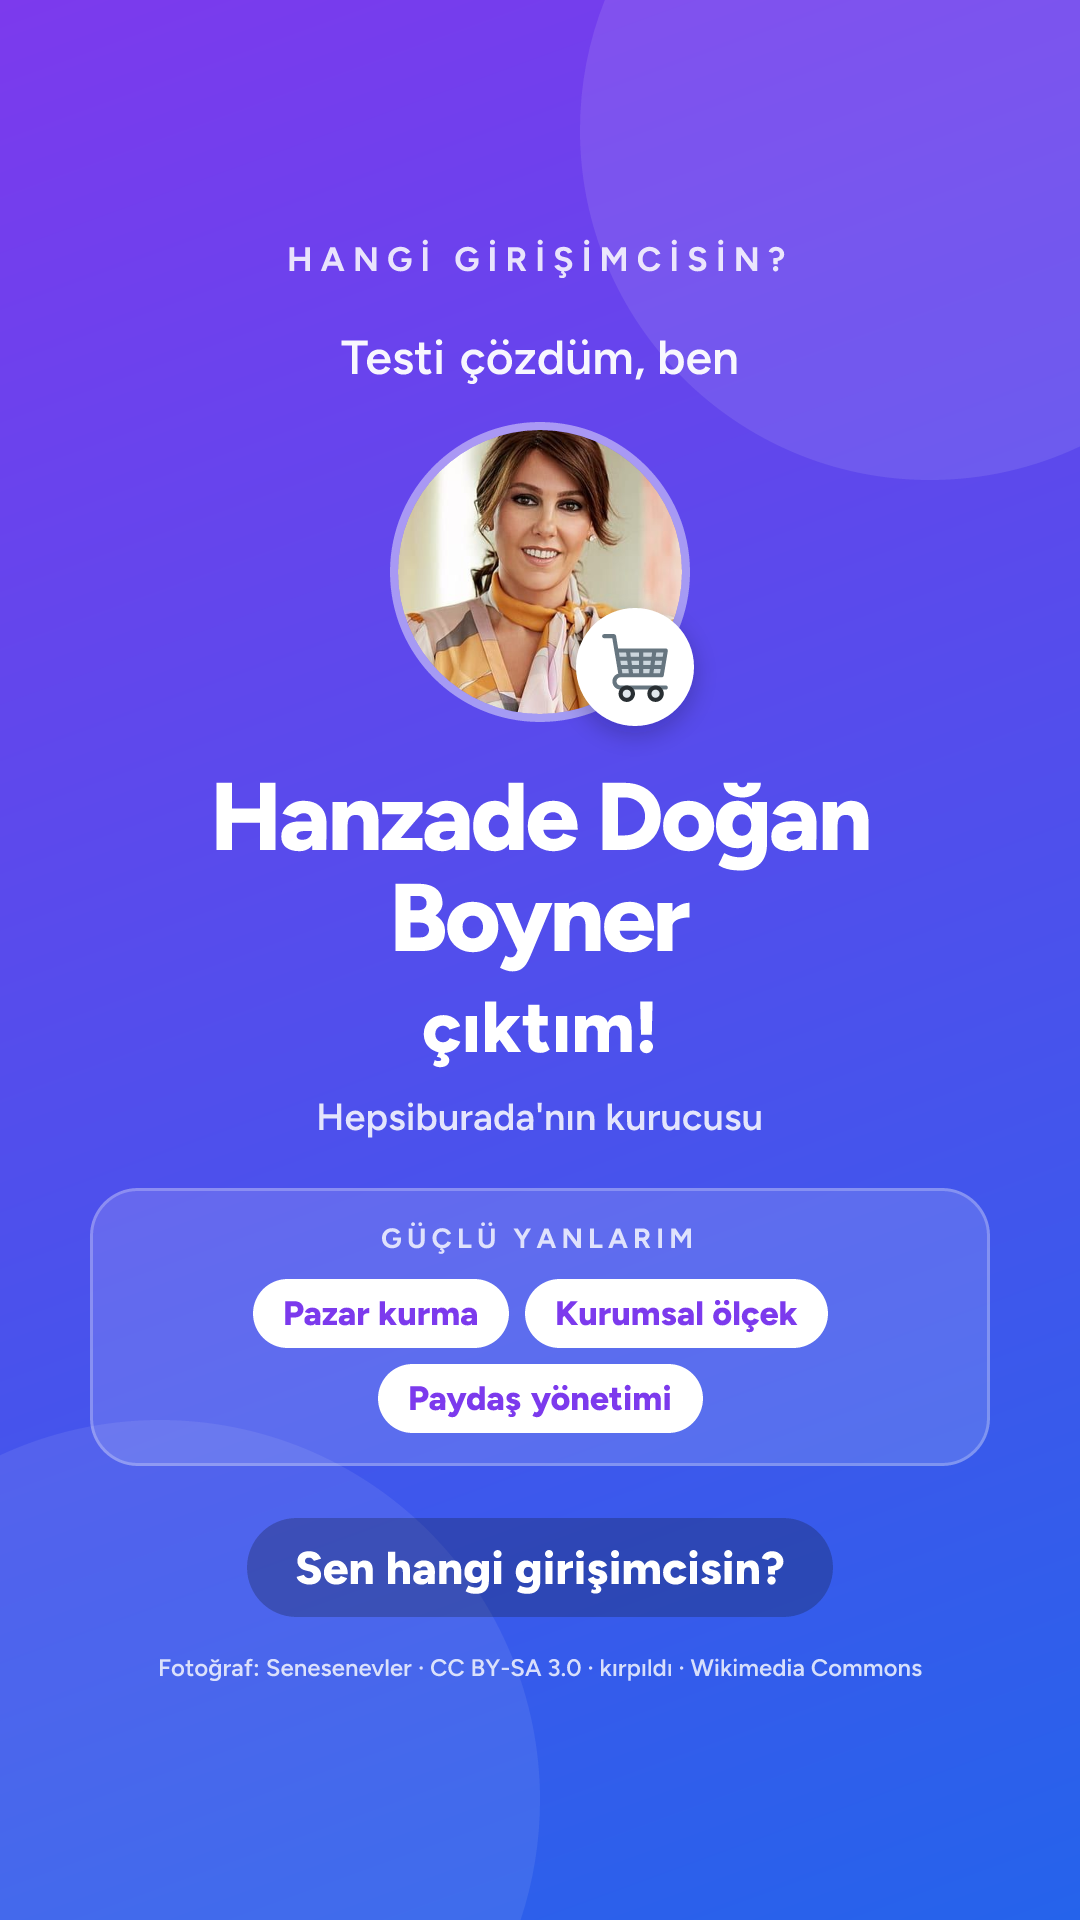
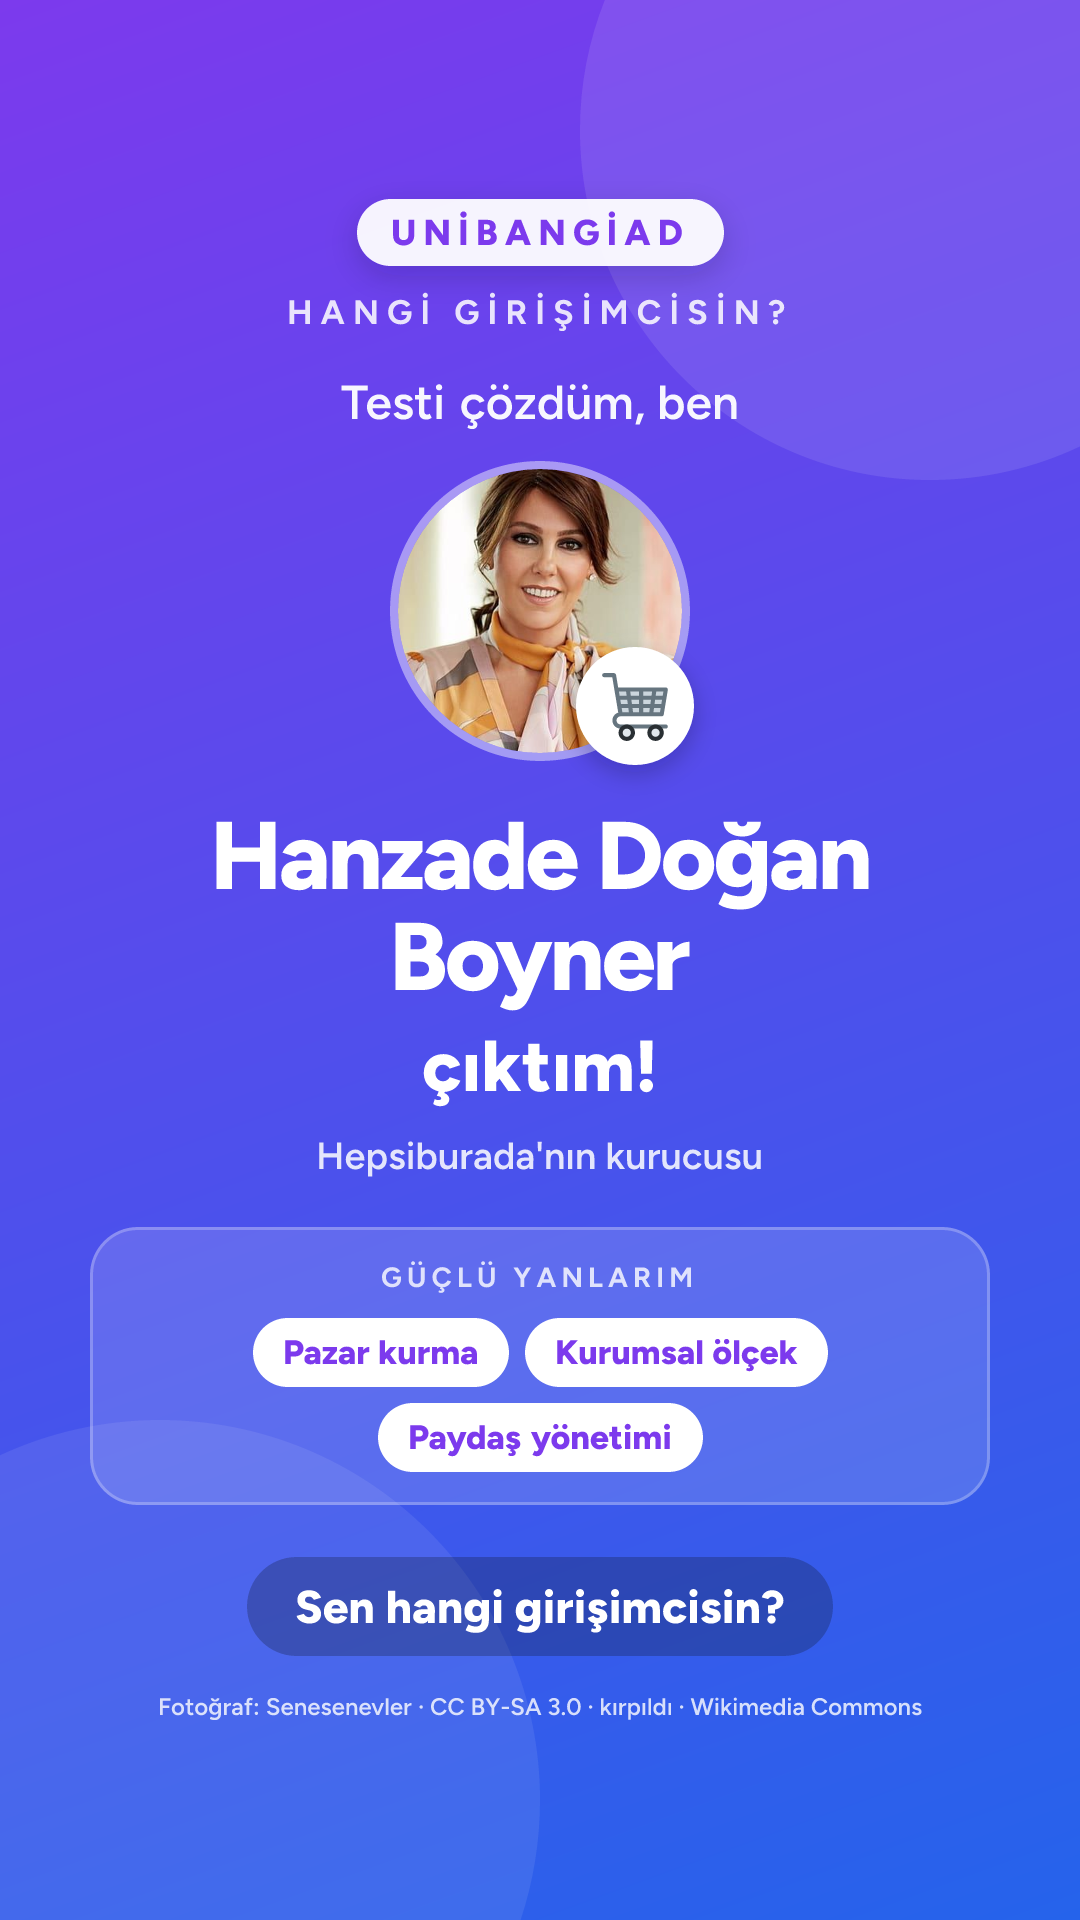
Profil çubukları yenilendi, UNİBANGİAD rozeti eklendi

Changed region(s): [[0.0611, 0.0938, 0.9167, 0.9062], [0.0917, 0.75, 0.1222, 0.7812]]

diff --git a/stil.css b/stil.css
@@ -11,6 +11,21 @@ body {
 }
 main { max-width: 460px; margin: 0 auto; padding: 24px 16px 40px; }
 
+/* Kulüp rozeti (quiz.meta.club) — sayfanın en üstü. */
+.marka {
+  display: block;
+  width: max-content;
+  margin: 0 auto 14px;
+  padding: 7px 18px;
+  border-radius: 999px;
+  font-size: 13px;
+  font-weight: 800;
+  letter-spacing: .18em;
+  color: #fff;
+  background: linear-gradient(90deg, var(--g1), var(--g2));
+  box-shadow: 0 8px 20px -10px rgba(76, 29, 149, .6);
+}
+
 .ust {
   margin: 0 0 12px;
   text-align: center;
@@ -136,11 +151,68 @@ main { max-width: 460px; margin: 0 auto; padding: 24px 16px 40px; }
 }
 .profil h2 { margin: 0; font-size: 18px; }
 .profil .alt { margin: 4px 0 16px; font-size: 13px; color: #64748b; }
-.cubuk + .cubuk { margin-top: 12px; }
-.etiket { display: flex; justify-content: space-between; font-size: 14px; font-weight: 600; color: #334155; }
-.etiket span { font-variant-numeric: tabular-nums; color: #64748b; }
-.iz { height: 10px; margin-top: 6px; border-radius: 999px; background: #f1f5f9; overflow: hidden; }
-.iz div { height: 100%; border-radius: 999px; }
+/* Profil çubukları. --renk her satırda eksenin rengi (paylas.js verir).
+ * color-mix desteklemeyen eski tarayıcılar önceki satırdaki yedek rengi kullanır. */
+.cubuk { --renk: #7c3aed; padding: 10px 12px; border-radius: 16px; }
+.cubuk + .cubuk { margin-top: 6px; }
+.cubuk.tepe {
+  background: #faf5ff;
+  background: color-mix(in srgb, var(--renk) 8%, white);
+  box-shadow: inset 0 0 0 1.5px rgba(124, 58, 237, .15);
+  box-shadow: inset 0 0 0 1.5px color-mix(in srgb, var(--renk) 30%, transparent);
+}
+.cubuk-ust { display: flex; align-items: center; gap: 10px; }
+.ikon {
+  display: flex;
+  flex-shrink: 0;
+  align-items: center;
+  justify-content: center;
+  width: 34px;
+  height: 34px;
+  border-radius: 11px;
+  font-size: 18px;
+  background: #f1f5f9;
+  background: color-mix(in srgb, var(--renk) 16%, white);
+}
+.ad { flex: 1; min-width: 0; font-size: 14px; font-weight: 700; color: #1e293b; }
+.rozet-tepe {
+  flex-shrink: 0;
+  padding: 3px 8px;
+  border-radius: 999px;
+  font-size: 10px;
+  font-weight: 800;
+  letter-spacing: .05em;
+  text-transform: uppercase;
+  color: #fff;
+  background: var(--renk);
+}
+.deger {
+  flex-shrink: 0;
+  min-width: 30px;
+  text-align: right;
+  font-size: 15px;
+  font-weight: 800;
+  font-variant-numeric: tabular-nums;
+  color: var(--renk);
+}
+.iz {
+  height: 12px;
+  margin: 8px 0 0 44px;
+  border-radius: 999px;
+  overflow: hidden;
+  background: #f1f5f9;
+  background: color-mix(in srgb, var(--renk) 12%, #f1f5f9);
+}
+.dolgu {
+  width: 0;
+  height: 100%;
+  border-radius: 999px;
+  background: var(--renk);
+  background: linear-gradient(90deg, color-mix(in srgb, var(--renk) 55%, white), var(--renk));
+  box-shadow: 0 2px 8px -2px var(--renk);
+  transition: width .9s cubic-bezier(.2, .8, .2, 1);
+}
+@media (prefers-reduced-motion: reduce) { .dolgu { transition: none; } }
 
 footer { margin-top: 28px; text-align: center; font-size: 12px; line-height: 1.6; color: #94a3b8; }
 

diff --git a/paylas.js b/paylas.js
@@ -10,6 +10,14 @@
 
   var veri = JSON.parse(document.getElementById("veri").textContent);
 
+  /** Küçük DOM yardımcısı: metin her zaman textContent ile (HTML enjeksiyonu yok). */
+  function el(tag, className, text) {
+    var node = document.createElement(tag);
+    node.className = className;
+    if (text !== undefined) node.textContent = text;
+    return node;
+  }
+
   /* ---------- 1. Ziyaretçinin profili (?p) ---------- */
 
   // share-code.ts decodeProfile ile aynı biçim: eksen başına 2 karakter, 36'lık taban.
@@ -59,28 +67,54 @@
 
     // your-profile.tsx ile aynı görüntüleme ölçeği: tepe eksen %100.
     var peak = Math.max.apply(null, user.concat([1]));
+    var pcts = user.map(function (v) {
+      return Math.round((v / peak) * 100);
+    });
+    // En güçlü iki eksen rozet alır (dominantAxes ile aynı fikir: en yüksek 2).
+    var top2 = pcts
+      .map(function (p, i) {
+        return { p: p, i: i };
+      })
+      .sort(function (a, b) {
+        return b.p - a.p;
+      })
+      .slice(0, 2)
+      .map(function (x) {
+        return x.i;
+      });
+
     var box = document.getElementById("cubuklar");
+    var fills = [];
     veri.axes.forEach(function (axis, i) {
-      var pct = Math.round((user[i] / peak) * 100);
-      var row = document.createElement("div");
-      row.className = "cubuk";
-      var label = document.createElement("div");
-      label.className = "etiket";
-      label.textContent = axis.emoji + " " + axis.label;
-      var value = document.createElement("span");
-      value.textContent = String(pct);
-      label.appendChild(value);
-      var track = document.createElement("div");
-      track.className = "iz";
-      var fill = document.createElement("div");
-      fill.style.width = pct + "%";
-      fill.style.background = axis.color;
+      var row = el("div", "cubuk" + (top2.indexOf(i) >= 0 ? " tepe" : ""));
+      row.style.setProperty("--renk", axis.color);
+
+      var head = el("div", "cubuk-ust");
+      head.appendChild(el("span", "ikon", axis.emoji));
+      head.appendChild(el("span", "ad", axis.label));
+      if (top2.indexOf(i) >= 0) head.appendChild(el("span", "rozet-tepe", "En güçlü"));
+      head.appendChild(el("span", "deger", String(pcts[i])));
+
+      var track = el("div", "iz");
+      var fill = el("div", "dolgu");
       track.appendChild(fill);
-      row.appendChild(label);
+      fills.push({ node: fill, pct: pcts[i], i: i });
+
+      row.appendChild(head);
       row.appendChild(track);
       box.appendChild(row);
     });
     document.getElementById("profil").hidden = false;
+
+    // Çubuklar 0'dan dolarak açılır (CSS geçişi; hareket azaltma tercihinde anında).
+    requestAnimationFrame(function () {
+      requestAnimationFrame(function () {
+        fills.forEach(function (f) {
+          f.node.style.transitionDelay = f.i * 70 + "ms";
+          f.node.style.width = Math.max(f.pct, 3) + "%";
+        });
+      });
+    });
   }
 
   /* ---------- 2. Hikâyende paylaş ---------- */

diff --git a/404.html b/404.html
@@ -12,6 +12,7 @@
 </head>
 <body>
 <main>
+  <p class="marka">UNİBANGİAD</p>
   <section class="kart">
     <div class="emoji" aria-hidden="true">🚀</div>
     <h1>Hangi Girişimcisin?</h1>

diff --git a/index.html b/index.html
@@ -12,6 +12,7 @@
 </head>
 <body>
 <main>
+  <p class="marka">UNİBANGİAD</p>
   <section class="kart">
     <div class="emoji" aria-hidden="true">🚀</div>
     <h1>Hangi Girişimcisin?</h1>

diff --git a/acun-ilicali/index.html b/acun-ilicali/index.html
@@ -16,6 +16,7 @@
 </head>
 <body>
 <main>
+  <p class="marka">UNİBANGİAD</p>
   <p class="ust">Sonucun</p>
   <section class="kart">
     <div class="portre">

diff --git a/coco-chanel/index.html b/coco-chanel/index.html
@@ -16,6 +16,7 @@
 </head>
 <body>
 <main>
+  <p class="marka">UNİBANGİAD</p>
   <p class="ust">Sonucun</p>
   <section class="kart">
     <div class="portre">

diff --git a/demet-mutlu/index.html b/demet-mutlu/index.html
@@ -16,6 +16,7 @@
 </head>
 <body>
 <main>
+  <p class="marka">UNİBANGİAD</p>
   <p class="ust">Sonucun</p>
   <section class="kart">
     <div class="portre">

diff --git a/elon-musk/index.html b/elon-musk/index.html
@@ -16,6 +16,7 @@
 </head>
 <body>
 <main>
+  <p class="marka">UNİBANGİAD</p>
   <p class="ust">Sonucun</p>
   <section class="kart">
     <div class="portre">

diff --git a/hanzade-dogan/index.html b/hanzade-dogan/index.html
@@ -16,6 +16,7 @@
 </head>
 <body>
 <main>
+  <p class="marka">UNİBANGİAD</p>
   <p class="ust">Sonucun</p>
   <section class="kart">
     <div class="portre">

diff --git a/jeff-bezos/index.html b/jeff-bezos/index.html
@@ -16,6 +16,7 @@
 </head>
 <body>
 <main>
+  <p class="marka">UNİBANGİAD</p>
   <p class="ust">Sonucun</p>
   <section class="kart">
     <div class="portre">

diff --git a/kofteci-yusuf/index.html b/kofteci-yusuf/index.html
@@ -16,6 +16,7 @@
 </head>
 <body>
 <main>
+  <p class="marka">UNİBANGİAD</p>
   <p class="ust">Sonucun</p>
   <section class="kart">
     <div class="portre">

diff --git a/mrbeast/index.html b/mrbeast/index.html
@@ -16,6 +16,7 @@
 </head>
 <body>
 <main>
+  <p class="marka">UNİBANGİAD</p>
   <p class="ust">Sonucun</p>
   <section class="kart">
     <div class="portre">
